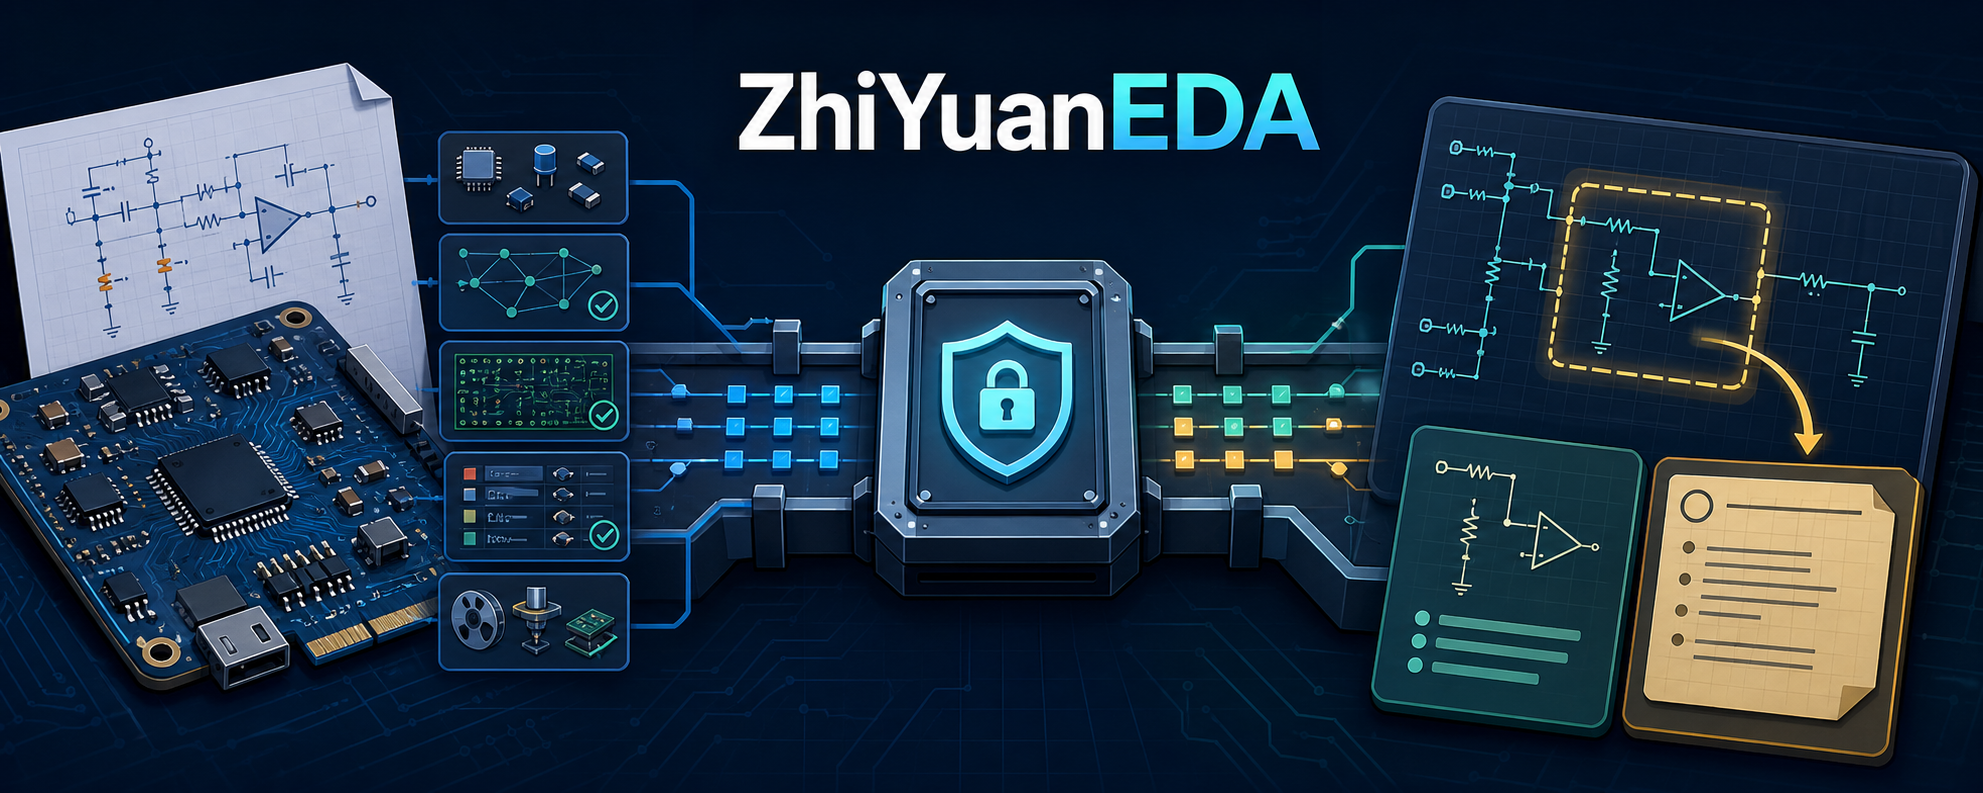
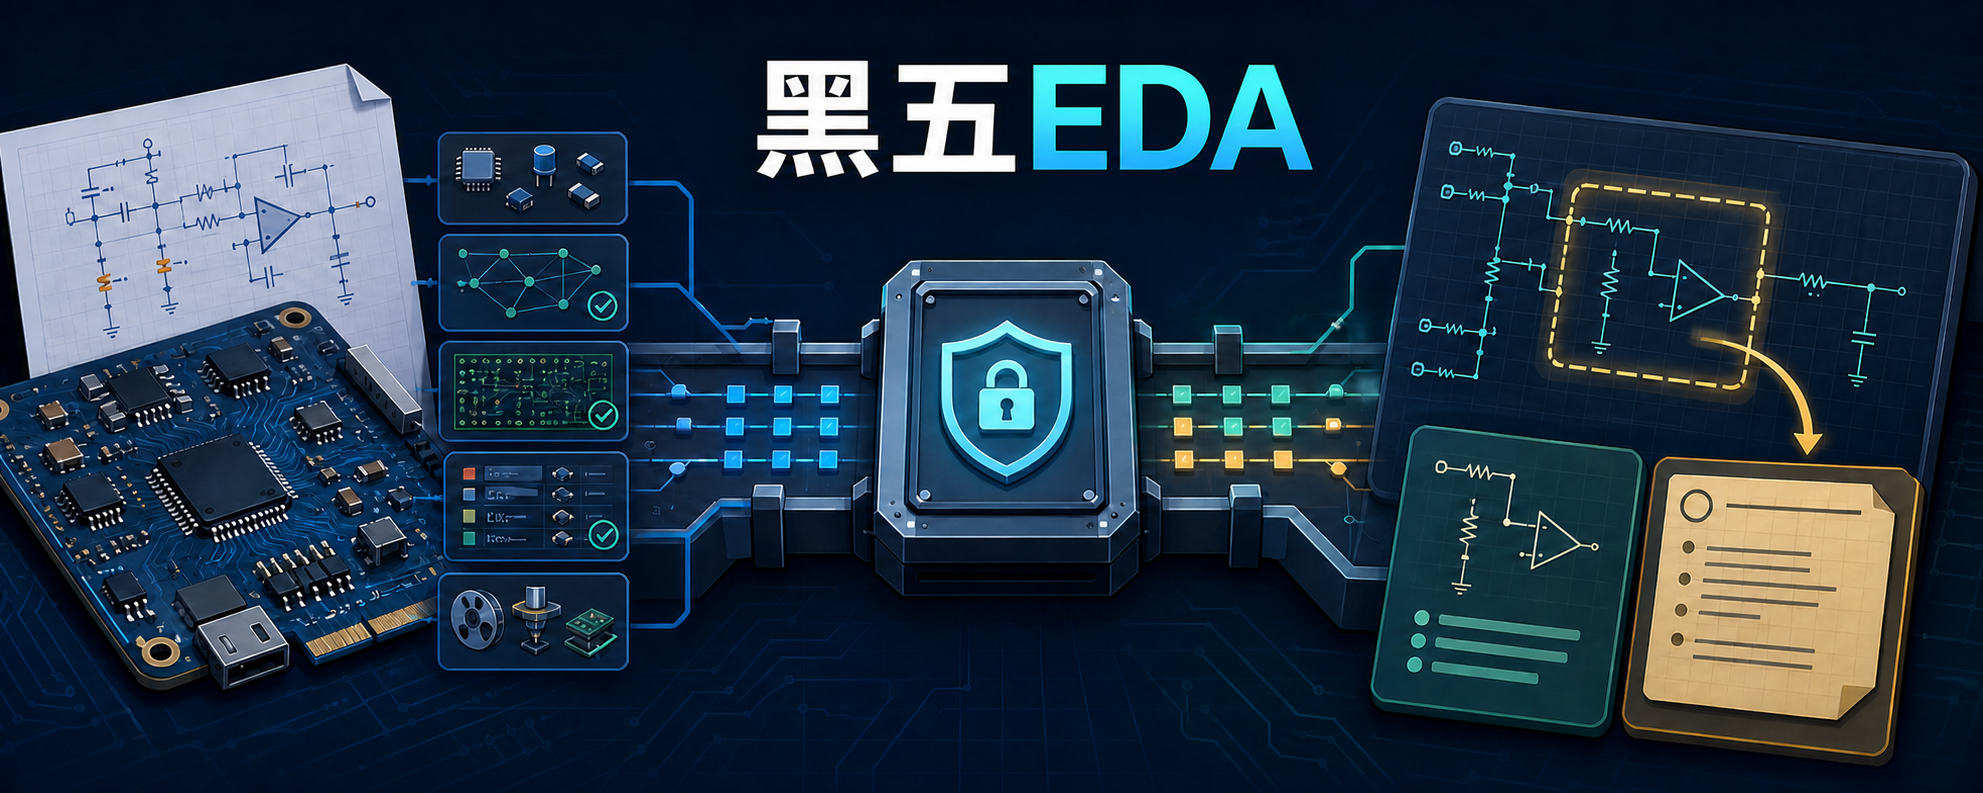
chore: rebrand display name to 黑五EDA

diff --git a/integrations/zhiyuaneda-gateway/src/index.ts b/integrations/zhiyuaneda-gateway/src/index.ts
@@ -1,5 +1,5 @@
 /**
- * ZhiYuanEDA Gateway extension for EasyEDA.
+ * 黑五EDA Gateway extension for EasyEDA.
  *
  * This extension keeps the official `easyeda-bridge` wire protocol so the
  * guarded workbench adapter can use it, while owning an isolated connection
@@ -236,7 +236,7 @@ function cancelConnectionFlow(resetRetryCount = true): void {
 }
 
 function performReconnect(): void {
-	eda.sys_Message.showToastMessage('ZhiYuanEDA Gateway 正在重新连接…');
+	eda.sys_Message.showToastMessage('黑五EDA Gateway 正在重新连接…');
 	cancelConnectionFlow();
 	void scanAndConnect(true);
 }
@@ -245,7 +245,7 @@ function performStopConnection(showToast = true): void {
 	cancelConnectionFlow();
 	lastError = 'Connection stopped by user';
 	if (showToast) {
-		eda.sys_Message.showToastMessage('已停止 ZhiYuanEDA Gateway 连接');
+		eda.sys_Message.showToastMessage('已停止 黑五EDA Gateway 连接');
 	}
 }
 
@@ -258,7 +258,7 @@ async function dispatchControlCommand(command: GatewayControlRequest['command'])
 		) as GatewayControlResponse;
 		if (response?.handled) {
 			if (command === 'stop') {
-				eda.sys_Message.showToastMessage('已停止 ZhiYuanEDA Gateway 连接');
+				eda.sys_Message.showToastMessage('已停止 黑五EDA Gateway 连接');
 			}
 			return;
 		}
@@ -335,7 +335,7 @@ export async function about(): Promise<void> {
 				? `等待重连：${Math.max(0, statusInfo.nextRetryAt - Date.now())} ms`
 				: '未连接';
 	const details = [
-		`ZhiYuanEDA Gateway v${extensionConfig.version}`,
+		`黑五EDA Gateway v${extensionConfig.version}`,
 		connectionText,
 		`Gateway ID: ${GATEWAY_ID}`,
 		`Protocol: ${PROTOCOL_VERSION}`,
@@ -346,7 +346,7 @@ export async function about(): Promise<void> {
 		details.push(`最后错误：${statusInfo.lastError}`);
 	}
 
-	eda.sys_Dialog.showInformationMessage(details.join('\n'), 'ZhiYuanEDA Gateway');
+	eda.sys_Dialog.showInformationMessage(details.join('\n'), '黑五EDA Gateway');
 }
 
 // ─── Discovery and connection ─────────────────────────────────────
@@ -378,7 +378,7 @@ async function scanAndConnect(force = false): Promise<void> {
 		if (!candidate) {
 			retryCount += 1;
 			lastError = `No ${SERVICE_ID} service found on ${PORT_START}-${PORT_END}`;
-			console.warn(`[ZhiYuanEDA] ${lastError}`);
+			console.warn(`[黑五EDA] ${lastError}`);
 			if (autoConnectEnabled) {
 				scheduleRetry(sessionId);
 			}
@@ -425,7 +425,7 @@ async function scanAndConnect(force = false): Promise<void> {
 		void persistPreferredPort(candidate.port);
 		startHeartbeat(sessionId);
 		const mode = candidate.dedicated ? '专属' : '官方兼容';
-		eda.sys_Message.showToastMessage(`ZhiYuanEDA Gateway 已连接（${candidate.port}，${mode}）`);
+		eda.sys_Message.showToastMessage(`黑五EDA Gateway 已连接（${candidate.port}，${mode}）`);
 	}
 	finally {
 		if (isConnectionSessionActive(sessionId)) {
@@ -439,7 +439,7 @@ async function persistPreferredPort(port: number): Promise<void> {
 		await eda.sys_Storage.setExtensionUserConfig(STORAGE_KEY_PREFERRED_PORT, port);
 	}
 	catch (error: unknown) {
-		console.warn('[ZhiYuanEDA] Failed to persist preferred bridge port:', error);
+		console.warn('[黑五EDA] Failed to persist preferred bridge port:', error);
 	}
 }
 
@@ -545,7 +545,7 @@ function tryConnectToPort(port: number, sessionId: number): Promise<ConnectionCa
 						message = JSON.parse(String(event.data)) as BridgeMessage;
 					}
 					catch (error: unknown) {
-						console.warn(`[ZhiYuanEDA] Invalid bridge message on ${port}:`, error);
+						console.warn(`[黑五EDA] Invalid bridge message on ${port}:`, error);
 						return;
 					}
 
@@ -579,7 +579,7 @@ function tryConnectToPort(port: number, sessionId: number): Promise<ConnectionCa
 			);
 		}
 		catch (error: unknown) {
-			console.warn(`[ZhiYuanEDA] WebSocket registration failed on ${port}:`, error);
+			console.warn(`[黑五EDA] WebSocket registration failed on ${port}:`, error);
 			settle(null);
 		}
 	});
@@ -651,7 +651,7 @@ function sendHeartbeat(sessionId: number, socketId: string): void {
 }
 
 function reconnectAfterTransportFailure(): void {
-	console.warn(`[ZhiYuanEDA] ${lastError ?? 'Transport disconnected'}, reconnecting...`);
+	console.warn(`[黑五EDA] ${lastError ?? 'Transport disconnected'}, reconnecting...`);
 	cancelConnectionFlow();
 	if (autoConnectEnabled) {
 		void scanAndConnect();

diff --git a/packages/easyeda-gateway/easyeda_gateway/ibom.py b/packages/easyeda-gateway/easyeda_gateway/ibom.py
@@ -134,7 +134,7 @@ _HTML_TEMPLATE = """<!doctype html>
 </style>
 </head>
 <body>
-<header><div><h1 id="title">Interactive BOM</h1><small id="meta"></small></div><small>ZhiYuanEDA · assembly-lite.v1</small></header>
+<header><div><h1 id="title">Interactive BOM</h1><small id="meta"></small></div><small>黑五EDA · assembly-lite.v1</small></header>
 <div class="toolbar"><input id="search" placeholder="搜索位号、型号、封装"><select id="side"><option value="all">全部面</option><option value="front">正面</option><option value="back">背面</option></select><select id="tracks"><option value="all">全部走线</option><option value="front">仅顶层</option><option value="back">仅底层</option><option value="none">隐藏走线</option></select></div>
 <main><section class="card"><div class="stats" id="stats"></div><div class="table-wrap"><table><thead><tr><th>完成</th><th>位号</th><th>数量</th><th>值</th><th>封装</th><th>制造商料号</th><th>立创编号</th><th>面</th></tr></thead><tbody id="bom"></tbody></table></div></section><section class="card"><svg class="board" id="board" role="img" aria-label="PCB assembly preview"></svg></section></main>
 <script type="application/json" id="ibom-data">__IBOM_DATA__</script>

diff --git a/docs/assets/README.md b/docs/assets/README.md
@@ -1,12 +1,12 @@
 # README visual assets
 
-These images were generated for the ZhiYuanEDA GitHub README on 2026-08-27
-with the built-in OpenAI image-generation tool. No official EasyEDA or JLC
-logos were requested or used.
+These images were generated or edited for the 黑五EDA GitHub README on
+2026-08-27 and 2026-08-28 with the built-in OpenAI image-generation tool.
+No official EasyEDA or JLC logos were requested or used.
 
 | File | Size | SHA-256 | Purpose |
 | --- | --- | --- | --- |
[3 lines of base64/hex data omitted]
 
 ## Tutorial visuals
@@ -30,7 +30,7 @@ information, or logo.
 ## Hero prompt
 
 ```text
-Create a polished wide GitHub README hero for “ZhiYuanEDA”. Show a guarded
+Create a polished wide GitHub README hero for “黑五EDA”. Show a guarded
 local API bridge connecting electronic design work to a hardware-learning
 canvas. On the left, show a schematic and PCB with component, net, DRC, BOM
 and manufacturing-evidence motifs. In the center, show a secure gateway chip
@@ -38,14 +38,23 @@ with a shield and verified data packets. On the right, show a learning canvas
 with a highlighted circuit region, annotation arrow, explanation card and
 structured note. Use a premium modern 3D-isometric technical illustration
 with crisp infographic geometry, deep navy, slate, cyan, teal and restrained
-amber accents. Render “ZhiYuanEDA” exactly once. Use no other text, official
+amber accents. Render “黑五EDA” exactly once. Use no other text, official
 logos, trademarks, watermarks, people, robots or generic AI-brain imagery.
+```
+
+## Hero rename edit prompt
+
+```text
+Replace only the large top-center brand text with the exact text “黑五EDA”.
+Render it exactly once and preserve the original ultra-wide composition,
+technical objects, crop, colors, lighting and every non-text visual element.
+Add no other text, logo, trademark or watermark.
 ```
 
 ## Two-workflow prompt
 
 ```text
-Create a friendly Chinese infographic explaining ZhiYuanEDA’s two core
+Create a friendly Chinese infographic explaining 黑五EDA’s two core
 workflows. Use a wide dark-navy technical layout with two left-to-right lanes,
 large readable labels and simple professional icons. Top lane, verbatim:
 “硬件设计链”, “需求”, “模块设计”, “原理图审查”, “BOM选型”, “受控回填”.

diff --git a/docs/releases/v0.8.1.md b/docs/releases/v0.8.1.md
@@ -1,4 +1,4 @@
-# ZhiYuanEDA 0.8.1 更新日记
+# 黑五EDA 0.8.1 更新日记
 
 发布日期：2026-08-27
 发布者：Lyyyy
@@ -6,14 +6,14 @@
 ## 本次更新的目的
 
 `0.8.1` 把此前仅存在于本地开发树中的专属嘉立创EDA连接器整理为公开源码模块。
-从这一版开始，ZhiYuanEDA 不再只要求用户安装官方 Run API Gateway，也拥有独立命名、
-独立连接状态和独立构建流程的 `ZhiYuanEDA Gateway`。
+从这一版开始，黑五EDA 不再只要求用户安装官方 Run API Gateway，也拥有独立命名、
+独立连接状态和独立构建流程的 `黑五EDA Gateway`。
 
 ## 新增模块
 
 目录：`integrations/zhiyuaneda-gateway/`
 
-- 扩展名称：`ZhiYuanEDA Gateway`
+- 扩展名称：`黑五EDA Gateway`
 - 扩展版本：`0.1.0`
 - EasyEDA 引擎范围：`~3.2.0`
 - 发布者：`Lyyyy`
@@ -44,7 +44,7 @@
 - 专属 Bridge 握手测试：通过。
 - 官方通用 Bridge 兼容测试：通过。
 - 自动连接开关即时生效测试：通过。
-- ZhiYuanEDA 全仓库 CI：由 GitHub Actions 在本次提交推送后复验。
+- 黑五EDA 全仓库 CI：由 GitHub Actions 在本次提交推送后复验。
 
 ## 当前发布边界
 

diff --git a/PUBLISHING.md b/PUBLISHING.md
@@ -4,7 +4,7 @@
 
 - Copyright holder: `Lyyyy`
 - Developer and publisher display name: `Lyyyy`
-- Product display name: `ZhiYuanEDA`
+- Product display name: `黑五EDA`
 - Repository name: `ZhiYuanEDA`
 - Python package: `easyeda-workbench-gateway`
 - First-party license: `PolyForm-Noncommercial-1.0.0`
@@ -42,7 +42,7 @@ coverage.
 
 Suggested repository description:
 
-> ZhiYuanEDA: guarded EasyEDA API access and a traceable hardware lifecycle workbench for noncommercial use.
+> 黑五EDA: guarded EasyEDA API access and a traceable hardware lifecycle workbench for noncommercial use.
 
 Suggested topics: `easyeda`, `jlc`, `eda`, `pcb`, `schematic`, `hardware-design`,
 `bom`, `python`, `noncommercial`.
@@ -58,7 +58,7 @@ Candidate identity:
 ```json
 {
   "name": "zhiyuaneda-gateway",
-  "displayName": "ZhiYuanEDA Gateway",
+  "displayName": "黑五EDA Gateway",
   "publisher": "Lyyyy",
   "license": "PolyForm-Noncommercial-1.0.0",
   "categories": ["Project", "Other"]

diff --git a/integrations/zhiyuaneda-gateway/CHANGELOG.md b/integrations/zhiyuaneda-gateway/CHANGELOG.md
@@ -4,11 +4,11 @@
 
 ### 新增
 
-- 发布 `ZhiYuanEDA Gateway` 首个 GitHub 开发预览版本。
+- 发布 `黑五EDA Gateway` 首个 GitHub 开发预览版本。
 - 并行探测 `49620-49629`，缩短本地 Bridge 发现等待时间。
 - 增加专属 `gatewayId`、产品标识、WebSocket ID、MessageBus topic 与存储键。
-- 兼容官方 `service: "easyeda-bridge"` 握手，可连接现有 ZhiYuanEDA Python Gateway。
-- 记忆最近一次成功端口，并优先选择声明 ZhiYuanEDA 身份的 Bridge。
+- 兼容官方 `service: "easyeda-bridge"` 握手，可连接现有 黑五EDA Python Gateway。
+- 记忆最近一次成功端口，并优先选择声明 黑五EDA 身份的 Bridge。
 - 增加有上限的指数退避、抖动和持续重连。
 - 连续两次心跳超时后才重新发现连接，减少 EasyEDA 短暂卡顿造成的误重连。
 - 菜单提供重新连接、停止连接、切换自动连接和状态查看。

diff --git a/integrations/jlc-hardware-learning-plugin/README.md b/integrations/jlc-hardware-learning-plugin/README.md
@@ -1,6 +1,6 @@
 # JLC Hardware Learning
 
-面向 Codex 的独立 ZhiYuanEDA 硬件学习画板插件。它以官方 EDA Bridge 导出的 PNG 或本地渲染的 PDF 页面作为视觉证据，支持框选原理图区域、在正常对话栏提问、接收教学标注、管理多个画板和图页，以及导出 PNG、SVG 和 JSON。
+面向 Codex 的独立 黑五EDA 硬件学习画板插件。它以官方 EDA Bridge 导出的 PNG 或本地渲染的 PDF 页面作为视觉证据，支持框选原理图区域、在正常对话栏提问、接收教学标注、管理多个画板和图页，以及导出 PNG、SVG 和 JSON。
 
 该插件不生成图片，不上传遥测数据，也不直接写入 EasyEDA 工程。EasyEDA 访问始终由硬件生命周期层通过官方 `eda.*` API 以只读方式完成。
 

diff --git a/materials/references/learning-canvas-architecture.md b/materials/references/learning-canvas-architecture.md
@@ -2,7 +2,7 @@
 
 ## 定位
 
-JLC Hardware Learning 只作为 `ZhiYuanEDA` 的学习交互界面：用户把原理图截图、官方导出证据或数据手册图片放入无限画布，用矩形、箭头、自由笔和文字框出问题区域，再让硬件导师解释。
+JLC Hardware Learning 只作为 `黑五EDA` 的学习交互界面：用户把原理图截图、官方导出证据或数据手册图片放入无限画布，用矩形、箭头、自由笔和文字框出问题区域，再让硬件导师解释。
 
 这里明确不使用 JLC Hardware Learning 的生图、按标注改图、AI HTML 或 AI Slides 功能。JLC Hardware Learning 也不是 EasyEDA API 的来源，不能定义、猜测或直接调用 `eda.*` 接口。
 

diff --git a/integrations/zhiyuaneda-gateway/README.md b/integrations/zhiyuaneda-gateway/README.md
@@ -1,6 +1,6 @@
-# ZhiYuanEDA Gateway
+# 黑五EDA Gateway
 
-这是 ZhiYuanEDA 自有的嘉立创EDA专属网关扩展源码，不直接修改
+这是 黑五EDA 自有的嘉立创EDA专属网关扩展源码，不直接修改
 `materials/sources/core/eext-run-api-gateway` 中锁定的官方上游子模块。
 扩展使用独立的产品名、UUID、WebSocket ID、MessageBus topic 和存储键，
 但仍兼容官方 `service: "easyeda-bridge"` 协议，因此可以和工作台现有的

diff --git a/materials/references/jlc-hardware-learning-detailed-design.md b/materials/references/jlc-hardware-learning-detailed-design.md
@@ -2,7 +2,7 @@
 
 ## 1. 文档状态
 
-- 设计范围：`ZhiYuanEDA` 的 JLC Hardware Learning 硬件学习画板子系统。
+- 设计范围：`黑五EDA` 的 JLC Hardware Learning 硬件学习画板子系统。
 - JLC Hardware Learning 基线：0.1.27，固定提交见 [`../manifests/integrations.lock.json`](../manifests/integrations.lock.json)。
 - EasyEDA API 基线：`@jlceda/pro-api-types` 0.4.15。
 - 设计基线：详细设计。

diff --git a/THIRD_PARTY_NOTICES.md b/THIRD_PARTY_NOTICES.md
@@ -1,7 +1,7 @@
 # Third-party notices
 
 This file records the main third-party works referenced or distributed by
-ZhiYuanEDA. It does not replace the corresponding license text.
+黑五EDA. It does not replace the corresponding license text.
 Pinned source revisions are also recorded in `.gitmodules`,
 `materials/manifests/sources.lock.json`, and
 `packages/easyeda-gateway/MIGRATION_SOURCES.md`.
